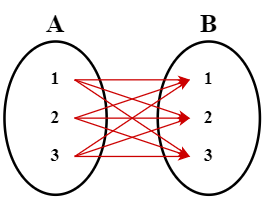
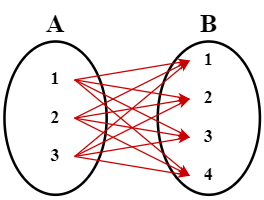
[Create] (Database) '조인' 문서 크로스 조인 설명 수정
- '조인' 문서 크로스 조인 설명 수정.
- 관련 이미지 변경.

diff --git a/Database/contents/Join.md b/Database/contents/Join.md
@@ -123,7 +123,7 @@ ON A.NO_EMP = B.NO_EMP
 
 - **모든 경우의 수를 표현하는 조인**이다.
 - 기준 테이블이 `TABLE_A`일 경우, `TABLE_A`의 특정 데이터(ROW)를 `TABLE_B`의 테이블 전체와 조인하는 방식이다.
-- 위 그림과 같은 경우 `TABLE_A`에 데이터 3개, `TABLE_B`에 데이터 3개가 있으므로 총 9개가 검색된다.
+- 위 그림과 같은 경우 `TABLE_A`에 데이터 3개, `TABLE_B`에 데이터 4개가 있으므로 총 12개가 검색된다.
 
 ```sql
 --TABLE_A와 TABLE_B를 CROSS JOIN--
@@ -142,9 +142,9 @@ CROSS JOIN TABLE_B B
 
 ```sql
 --TABLE_A를 SELF JOIN--
-SELECT A.NAME, B.NAME SUPERIOR
-FROM TABLE_A A
-SELF JOIN TABLE_A B
+SELECT A1.NAME, A2.NAME SUPERIOR
+FROM TABLE_A A1
+SELF JOIN TABLE_A A2
 ```
 
 ## 참고 자료
